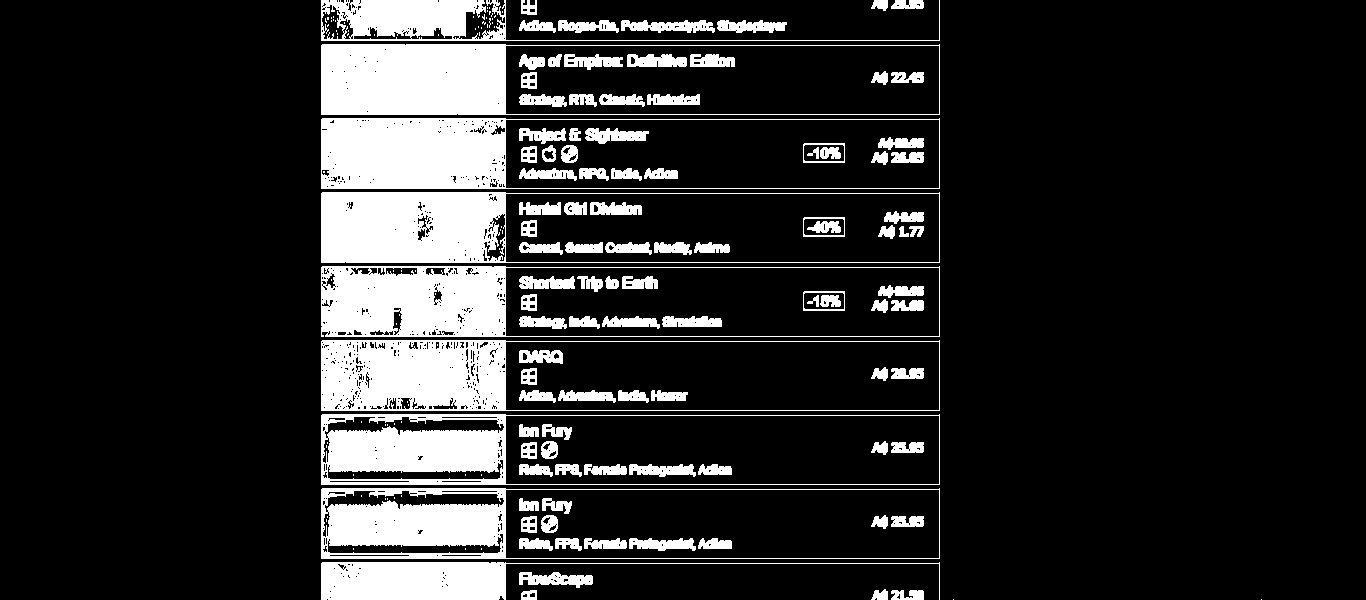
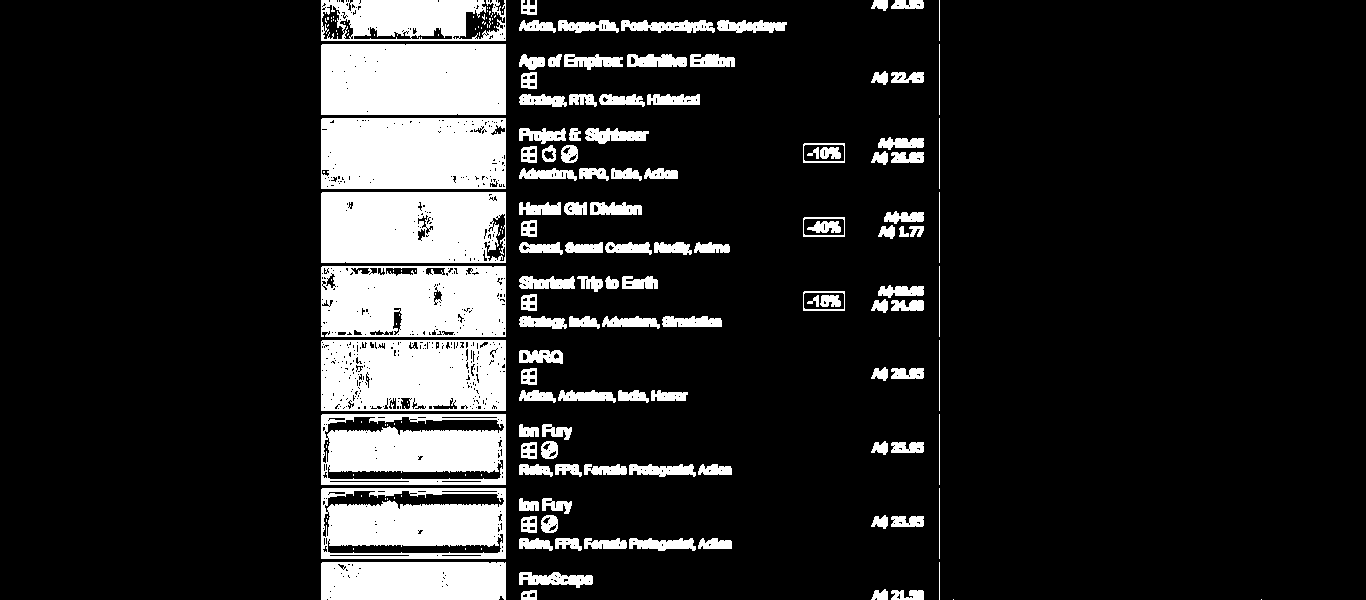
finalize the line detection with thickness

diff --git a/code/MODULE/img_processing_project/line_v2.py b/code/MODULE/img_processing_project/line_v2.py
@@ -5,7 +5,7 @@ import ip_preprocessing as pre
 
 def draw_line(img, lines, color):
     for line in lines:
-        cv2.line(img, line['head'], line['end'], color)
+        cv2.line(img, line['head'], line['end'], color, line['thickness'])
         # cv2.imshow('img', img)
         # cv2.waitKey(0)
 
@@ -15,31 +15,31 @@ def rm_line(binary, lines):
     Remove lines from binary map
     :param binary: Binary image
     :param lines: [line_h, line_v]
-            -> line_h: horizontal ((column_min, row), (column_max, row))
-            -> line_v: vertical ((column, row_min), (column, row_max))
+            -> line_h: horizontal {'head':(column_min, row), 'end':(column_max, row), 'thickness':int)
+            -> line_v: vertical {'head':(column, row_min), 'end':(column, row_max), 'thickness':int}
     :return: New binary map
     """
     new_binary = binary.copy()
     line_h, line_v = lines
     for line in line_h:
-        row = line[0][1]
-        new_binary[row, line[0][0]:line[1][0]] = 0
+        row = line['head'][1]
+        new_binary[row: row + line['thickness'], line['head'][0]:line['end'][0]] = 0
     for line in line_v:
-        column = line[0][0]
-        new_binary[line[0][1]:line[1][1], column] = 0
+        column = line['head'][0]
+        new_binary[line['head'][1]:line['end'][1], column: column + line['thickness']] = 0
 
     return new_binary
 
 
 def search_line(binary, min_line_length_h=200, min_line_length_v=80, max_thickness=3):
 
-    def check(start_row, start_col, mode, thickness=None):
+    def check(start_row, start_col, mode, line=None):
         if mode == 'h':
             for t in range(max_thickness + 1):
                 if start_row + t >= binary.shape[0] or binary[start_row + t, start_col] == 0:
                     # if needed, update the thickness of this line
-                    if thickness is not None:
-                        thickness = max(thickness, t)
+                    if line is not None:
+                        line['thickness'] = max(line['thickness'], t)
                     return True
                 mark_h[start_row + t, start_col] = 255
             return False
@@ -47,8 +47,8 @@ def search_line(binary, min_line_length_h=200, min_line_length_v=80, max_thickne
             for t in range(max_thickness + 1):
                 if start_col + t >= binary.shape[1] or binary[start_row, start_col + t] == 0:
                     # if needed, update the thickness of this line
-                    if thickness is not None:
-                        thickness = max(thickness, t)
+                    if line is not None:
+                        line['thickness'] = max(line['thickness'], t)
                     return True
                 mark_v[start_row, start_col + t] = 255
             return False
@@ -70,9 +70,9 @@ def search_line(binary, min_line_length_h=200, min_line_length_v=80, max_thickne
                 head = j
                 new_line = True
                 line['head'] = (head, x)
-                line['thickness'] = 0
+                line['thickness'] = -1
             # line end
-            elif new_line and (j == column - 1 or mark_h[x][j] > 0 or binary[x][j] == 0 or not check(x, j, 'h', line['thickness'])):
+            elif new_line and (j == column - 1 or mark_h[x][j] > 0 or binary[x][j] == 0 or not check(x, j, 'h', line)):
                 end = j
                 new_line = False
                 if end - head > min_line_length_h:
@@ -92,7 +92,7 @@ def search_line(binary, min_line_length_h=200, min_line_length_v=80, max_thickne
                 line['head'] = (y, head)
                 line['thickness'] = 0
             # line end
-            elif new_line and (i == row - 1 or mark_v[i][y] > 0 or binary[i][y] == 0 or not check(i, y, 'v', line['thickness'])):
+            elif new_line and (i == row - 1 or mark_v[i][y] > 0 or binary[i][y] == 0 or not check(i, y, 'v', line)):
                 end = i
                 new_line = False
                 if end - head > min_line_length_v:
@@ -119,9 +119,9 @@ broad = np.zeros(org.shape, dtype=np.uint8)
 draw_line(broad, lines_h, (0, 255, 0))
 draw_line(broad, lines_v, (0, 0, 255))
 
-# new_bin = rm_line(binary, [lines_h, lines_v])
+new_bin = rm_line(binary, [lines_h, lines_v])
 
 cv2.imwrite('output/labeled.png', org)
 cv2.imwrite('output/lines.png', broad)
 cv2.imwrite('output/grad.png', binary)
-# cv2.imwrite('output/rm_line.png', new_bin)
+cv2.imwrite('output/rm_line.png', new_bin)
